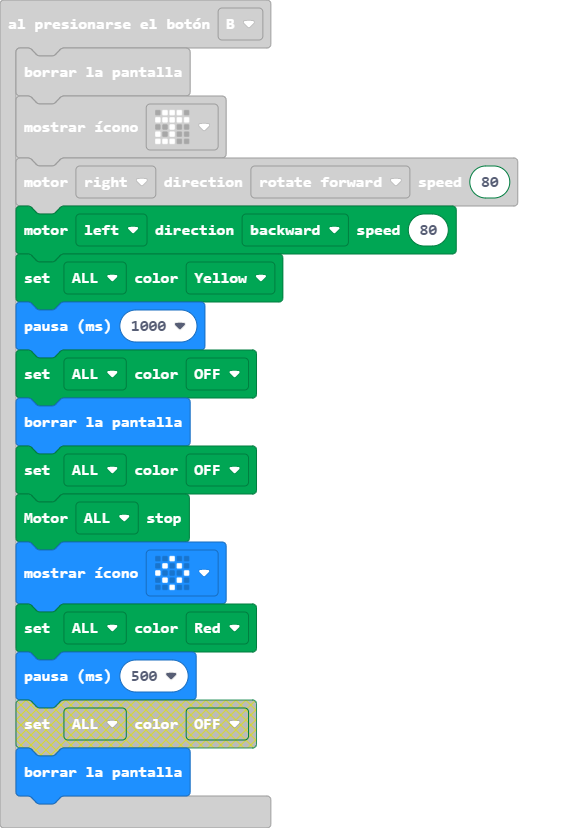
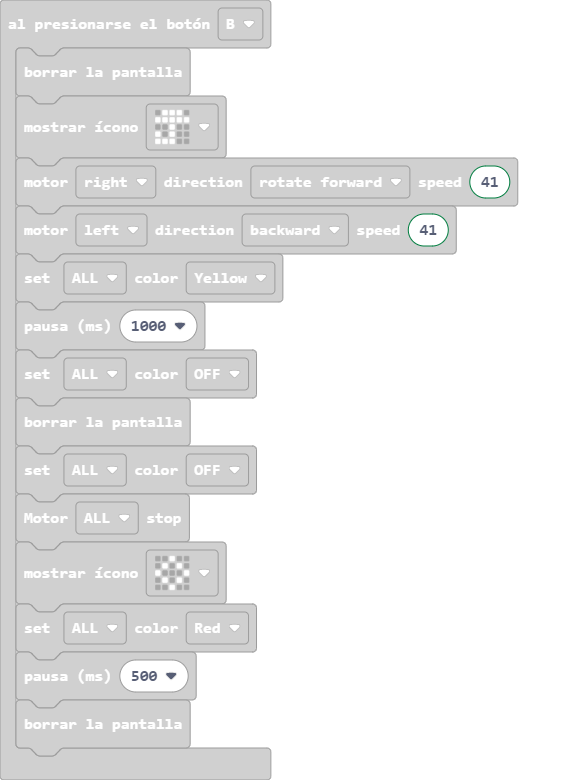
Actualizar main.blocks, main.ts

diff --git a/main.ts b/main.ts
@@ -24,8 +24,8 @@ input.onButtonPressed(Button.A, function () {
 input.onButtonPressed(Button.B, function () {
     basic.clearScreen()
     basic.showIcon(IconNames.Umbrella)
-    DFRobotMaqueenPlus.mototRun(Motors.M2, Dir.CW, 80)
-    DFRobotMaqueenPlus.mototRun(Motors.M1, Dir.CCW, 80)
+    DFRobotMaqueenPlus.mototRun(Motors.M2, Dir.CW, 41)
+    DFRobotMaqueenPlus.mototRun(Motors.M1, Dir.CCW, 41)
     DFRobotMaqueenPlus.setRGBLight(RGBLight.RGBA, Color.YELLOW)
     basic.pause(1000)
     DFRobotMaqueenPlus.setRGBLight(RGBLight.RGBA, Color.OFF)
